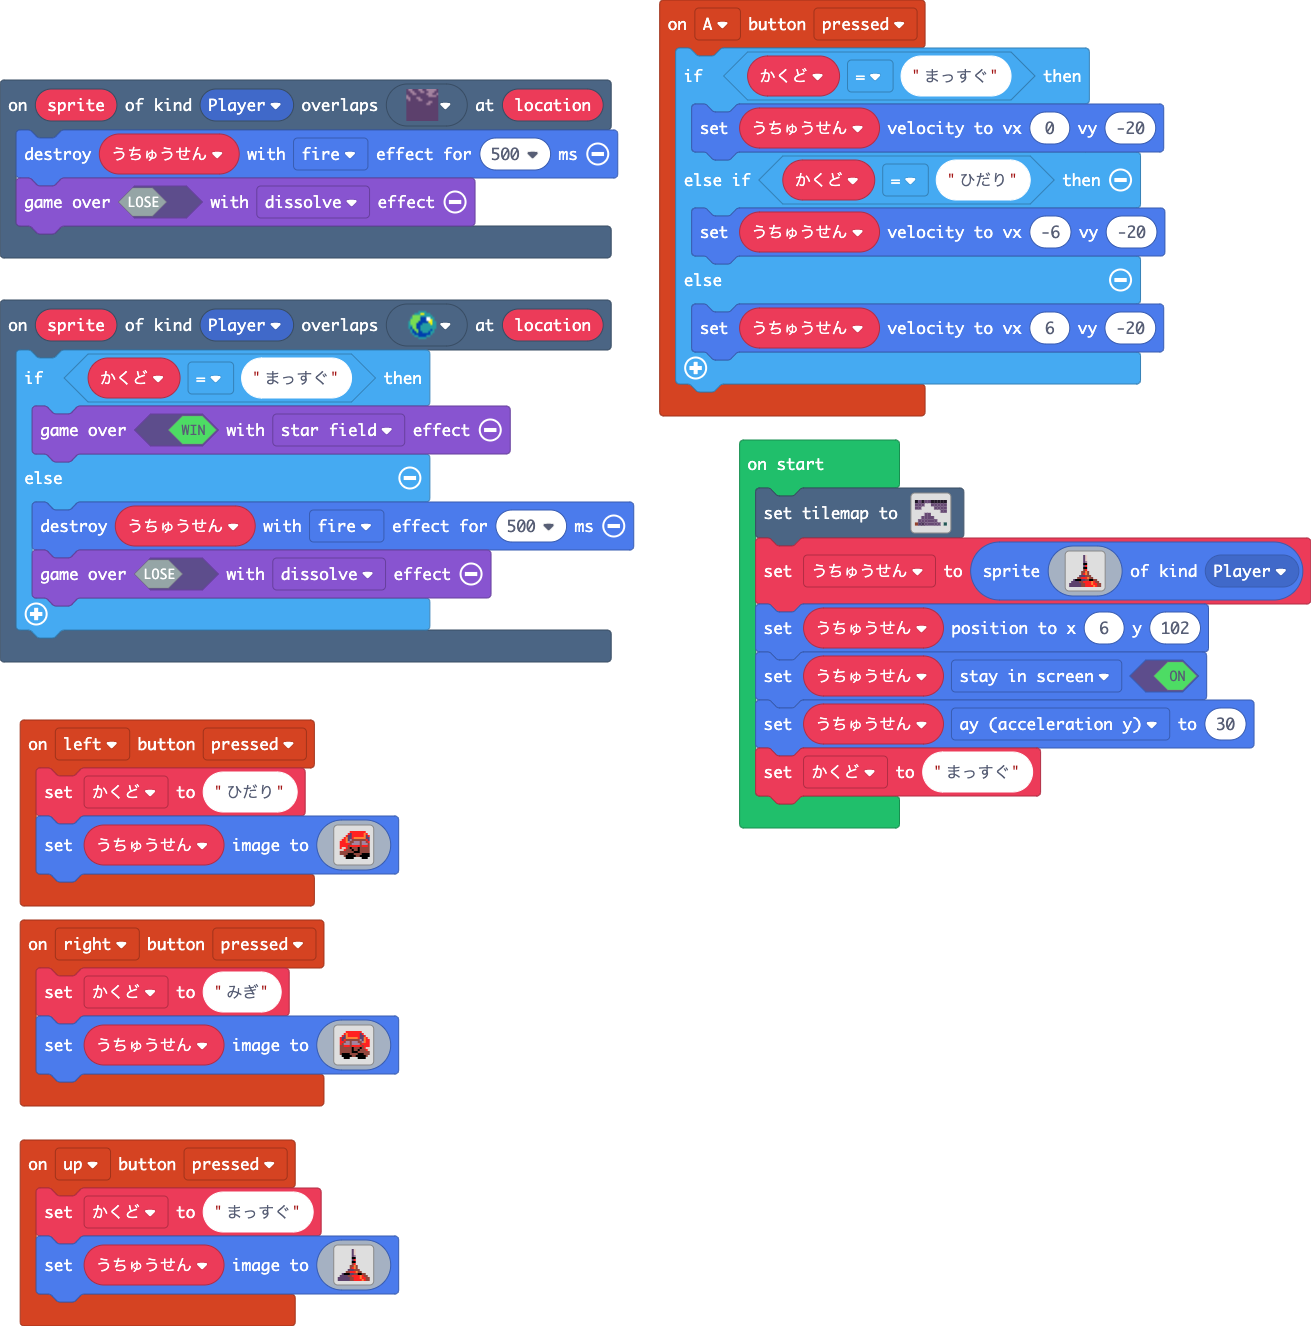
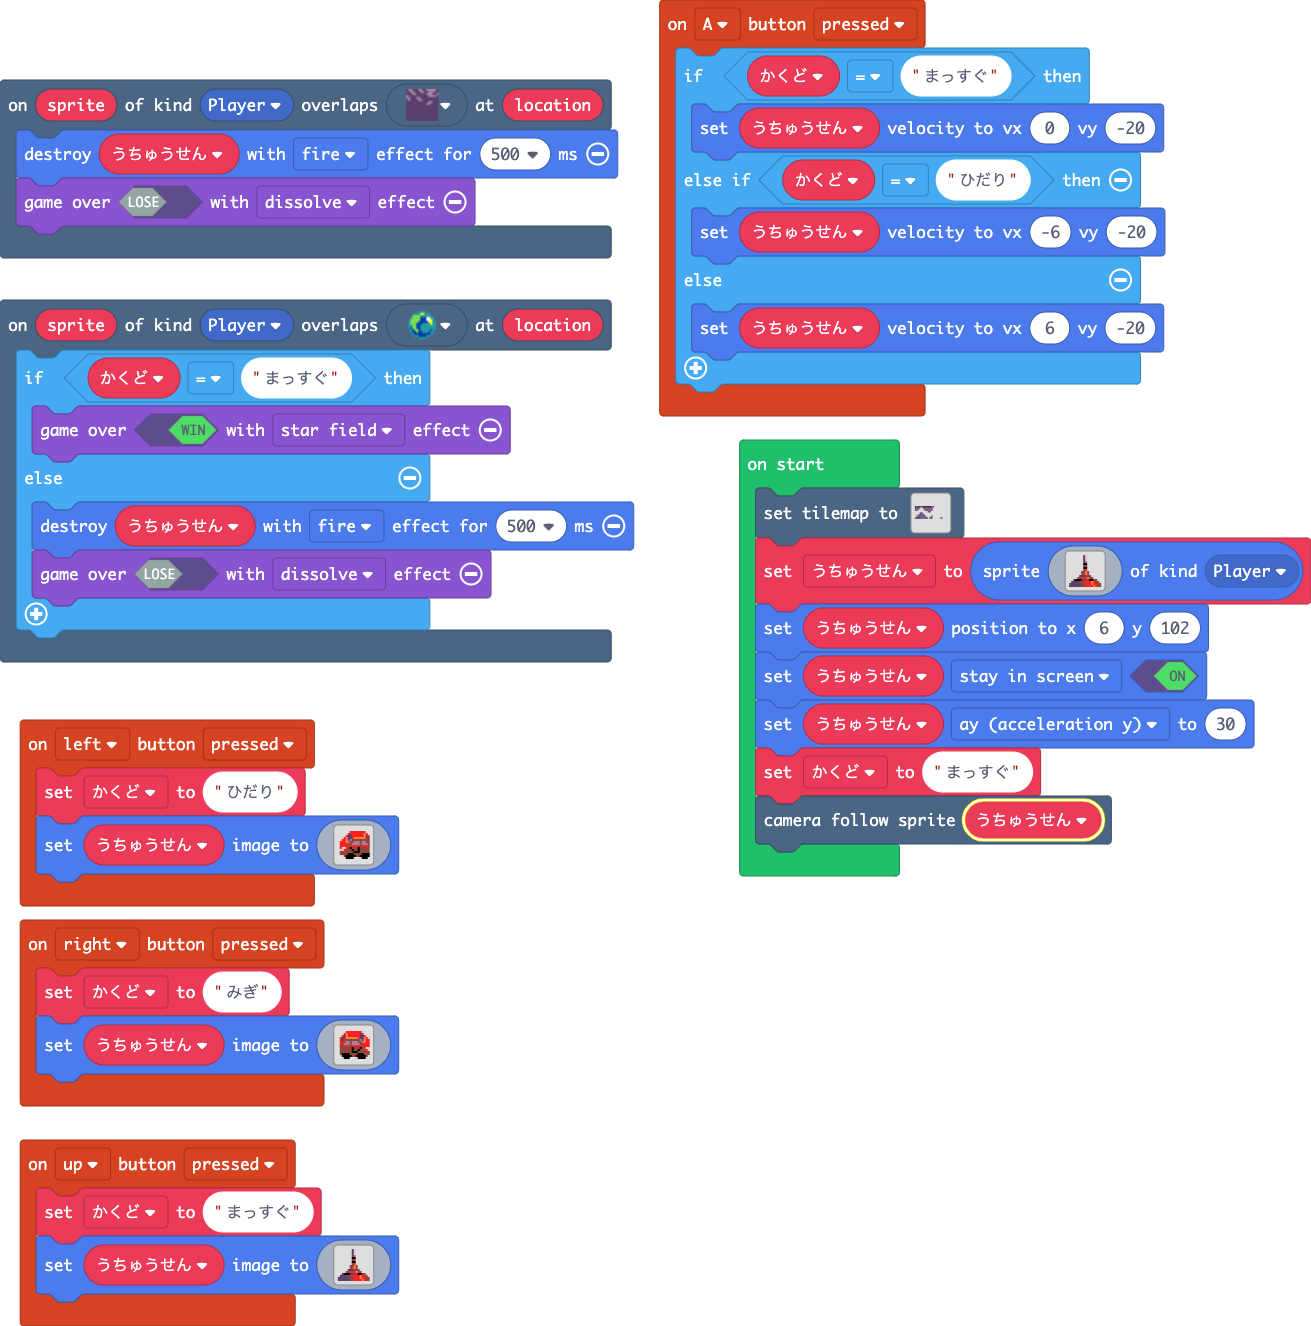
画面広くした

Changed region(s): [[0.5492, 0.5875, 0.8543, 0.6802], [0.7018, 0.371, 0.7323, 0.402]]

diff --git a/main.ts b/main.ts
@@ -106,16 +106,16 @@ c c c c c c e e 2 2 2 2 4 2 e e
 let かくど = ""
 let うちゅうせん: Sprite = null
 tiles.setTilemap(tiles.createTilemap(
[1 lines of base64/hex data omitted]
+            hex`1400080005060506060505050505060600000000000000000606060000060606060606000000000000000000060600000000060606060600000000000000000000000000000000000606000000000000000000000000000606000000000000000000000000000000000006060606000000000000000000000000000000060606060606000000060000000000000000000402030606060606000606000000000007000000`,
             img`
-2 2 2 2 2 2 2 2 2 2 
-2 2 2 . . 2 2 2 2 2 
-2 2 . . . . 2 2 2 2 
-. . . . . . . . 2 2 
-. . . 2 2 . . . . . 
-. . 2 2 2 2 . . . . 
-. 2 2 2 2 2 2 . . . 
-. 2 2 2 2 2 2 2 . . 
+2 2 2 2 2 2 2 2 2 2 2 2 . . . . . . . . 
+2 2 2 . . 2 2 2 2 2 2 . . . . . . . . . 
+2 2 . . . . 2 2 2 2 2 . . . . . . . . . 
+. . . . . . . . 2 2 . . . . . . . . . . 
+. . . 2 2 . . . . . . . . . . . . . . . 
+. . 2 2 2 2 . . . . . . . . . . . . . . 
+. 2 2 2 2 2 2 . . . 2 . . . . . . . . . 
+. 2 2 2 2 2 2 2 . 2 2 . . . . . . . . . 
 `,
             [myTiles.tile0,sprites.castle.rock1,sprites.builtin.oceanSand14,sprites.builtin.oceanSand15,sprites.dungeon.collectibleRedCrystal,sprites.builtin.oceanSand12,sprites.builtin.oceanSand8,sprites.dungeon.collectibleBlueCrystal],
             TileScale.Sixteen
@@ -142,3 +142,4 @@ c c c c c c e e 2 2 2 2 4 2 e e
 うちゅうせん.setFlag(SpriteFlag.StayInScreen, true)
 うちゅうせん.ay = 30
 かくど = "まっすぐ"
+scene.cameraFollowSprite(うちゅうせん)
